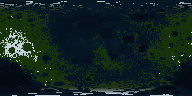
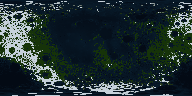
Raise Moon terrain authority to LOLA LDEM 128

diff --git a/src/domain/services/dem_terrain_source.rs b/src/domain/services/dem_terrain_source.rs
@@ -33,6 +33,9 @@ pub const ETOPO1_ROWS: usize = 10_801;
 /// LOLA LDEM_16's global pixel-registered grid dimensions.
 pub const LOLA_LDEM16_COLUMNS: usize = 5_760;
 pub const LOLA_LDEM16_ROWS: usize = 2_880;
+/// LOLA LDEM_128's global pixel-registered grid dimensions.
+pub const LOLA_LDEM128_COLUMNS: usize = 46_080;
+pub const LOLA_LDEM128_ROWS: usize = 23_040;
 /// MOLA MEGR's global pixel-registered mean-radius grid dimensions.
 pub const MOLA_MEGR32_COLUMNS: usize = 11_520;
 pub const MOLA_MEGR32_ROWS: usize = 5_760;
@@ -499,13 +502,43 @@ impl CubeSphereDem {
     /// 1,737,400-meter ME/PA reference sphere, with north-to-south rows and
     /// east-positive longitudes from zero through 360 degrees.
     pub fn from_lola_ldem_16_raw(raw: &[u8], resolution: u32) -> Result<Self, DemError> {
-        let expected_bytes = LOLA_LDEM16_COLUMNS
-            .checked_mul(LOLA_LDEM16_ROWS)
+        Self::from_lola_ldem_raw(
+            raw,
+            LOLA_LDEM16_COLUMNS,
+            LOLA_LDEM16_ROWS,
+            "LDEM_16",
+            resolution,
+        )
+    }
+
+    /// Convert a PDS LOLA LDEM_128 signed-`i16` little-endian height map (128
+    /// pixels per degree, 236.9 m samples) into the cube-sphere format. The
+    /// product shares LDEM_16's 0-360 degree east-positive, north-to-south
+    /// pixel registration and 0.5 m height scaling, so the same sampler applies.
+    pub fn from_lola_ldem_128_raw(raw: &[u8], resolution: u32) -> Result<Self, DemError> {
+        Self::from_lola_ldem_raw(
+            raw,
+            LOLA_LDEM128_COLUMNS,
+            LOLA_LDEM128_ROWS,
+            "LDEM_128",
+            resolution,
+        )
+    }
+
+    fn from_lola_ldem_raw(
+        raw: &[u8],
+        columns: usize,
+        rows: usize,
+        product: &str,
+        resolution: u32,
+    ) -> Result<Self, DemError> {
+        let expected_bytes = columns
+            .checked_mul(rows)
             .and_then(|samples| samples.checked_mul(HEIGHT_BYTES))
-            .expect("LOLA LDEM_16 raw byte count fits usize on supported targets");
+            .ok_or_else(|| DemError::InvalidFormat("LOLA LDEM dimensions overflow".into()))?;
         if raw.len() != expected_bytes {
             return Err(DemError::InvalidFormat(format!(
-                "LOLA LDEM_16 raw input must be {expected_bytes} bytes for {LOLA_LDEM16_COLUMNS}x{LOLA_LDEM16_ROWS} signed i16 LE samples, found {}",
+                "LOLA {product} raw input must be {expected_bytes} bytes for {columns}x{rows} signed i16 LE samples, found {}",
                 raw.len()
             )));
         }
@@ -520,14 +553,8 @@ impl CubeSphereDem {
                     let direction = face_uv_to_direction(face, u, v);
                     let (latitude_deg, longitude_deg) = direction_to_lat_lon(direction);
                     heights_m.push(
-                        sample_lola_ldem_m(
-                            raw,
-                            LOLA_LDEM16_COLUMNS,
-                            LOLA_LDEM16_ROWS,
-                            latitude_deg,
-                            longitude_deg,
-                        )
-                        .round() as i16,
+                        sample_lola_ldem_m(raw, columns, rows, latitude_deg, longitude_deg).round()
+                            as i16,
                     );
                 }
             }
@@ -685,15 +712,36 @@ pub fn convert_etopo2022_raw(
     CubeSphereDem::from_etopo2022_raw(&raw, resolution)?.write_path(output_path)
 }
 
-/// Convert the PDS LOLA LDEM_16 raw radius map into the versioned cube-sphere
-/// format. This is an offline tool; the simulator never reads source rasters.
-pub fn convert_lola_ldem_16_raw(
+/// Convert a PDS LOLA LDEM_16 or LDEM_128 raw height map into the versioned
+/// cube-sphere format. The product is inferred from the exact raster size, so
+/// a truncated or mislabelled download is rejected instead of baked. This is an
+/// offline tool; the simulator never reads source rasters.
+pub fn convert_lola_ldem_raw(
     input_path: impl AsRef<Path>,
     output_path: impl AsRef<Path>,
     resolution: u32,
 ) -> Result<(), DemError> {
     let raw = fs::read(input_path)?;
-    CubeSphereDem::from_lola_ldem_16_raw(&raw, resolution)?.write_path(output_path)
+    let ldem16_bytes = LOLA_LDEM16_COLUMNS
+        .checked_mul(LOLA_LDEM16_ROWS)
+        .and_then(|samples| samples.checked_mul(HEIGHT_BYTES))
+        .expect("LDEM_16 byte count fits usize");
+    let ldem128_bytes = LOLA_LDEM128_COLUMNS
+        .checked_mul(LOLA_LDEM128_ROWS)
+        .and_then(|samples| samples.checked_mul(HEIGHT_BYTES))
+        .expect("LDEM_128 byte count fits usize");
+    let dem = match raw.len() {
+        length if length == ldem16_bytes => CubeSphereDem::from_lola_ldem_16_raw(&raw, resolution)?,
+        length if length == ldem128_bytes => {
+            CubeSphereDem::from_lola_ldem_128_raw(&raw, resolution)?
+        }
+        length => {
+            return Err(DemError::InvalidFormat(format!(
+                "LOLA raw input is {length} bytes; expected {ldem16_bytes} (LDEM_16) or {ldem128_bytes} (LDEM_128)"
+            )))
+        }
+    };
+    dem.write_path(output_path)
 }
 
 /// Convert a PDS MOLA MEGR 32 raw radius map into the versioned cube-sphere
@@ -1115,5 +1163,17 @@ mod tests {
             round_height_m(f64::from(i16::MAX) + 1.0),
             Err(DemError::InvalidFormat(_))
         ));
+    }
+
+    #[test]
+    fn lola_product_converters_require_the_exact_raster_size() {
+        // A truncated or mislabelled download must fail before any sampling, so
+        // the 128 pixel-per-degree product cannot be confused with LDEM_16.
+        for error in [
+            CubeSphereDem::from_lola_ldem_16_raw(&[], 8),
+            CubeSphereDem::from_lola_ldem_128_raw(&[], 8),
+        ] {
+            assert!(matches!(error, Err(DemError::InvalidFormat(_))));
+        }
     }
 }

diff --git a/src/bin/lola_ldem_convert.rs b/src/bin/lola_ldem_convert.rs
@@ -1,10 +1,11 @@
-//! Offline PDS LOLA LDEM_16 converter. Requires `--features dem`.
+//! Offline PDS LOLA LDEM converter (LDEM_16 or LDEM_128). Requires
+//! `--features dem`.
 
 use std::env;
 use std::path::PathBuf;
 use std::process::ExitCode;
 
-use cosmic_systems_wasm::domain::services::dem_terrain_source::convert_lola_ldem_16_raw;
+use cosmic_systems_wasm::domain::services::dem_terrain_source::convert_lola_ldem_raw;
 
 fn main() -> ExitCode {
     let mut arguments = env::args_os().skip(1);
@@ -25,10 +26,10 @@ fn main() -> ExitCode {
         return usage();
     }
 
-    match convert_lola_ldem_16_raw(PathBuf::from(input), PathBuf::from(output), resolution) {
+    match convert_lola_ldem_raw(PathBuf::from(input), PathBuf::from(output), resolution) {
         Ok(()) => ExitCode::SUCCESS,
         Err(error) => {
-            eprintln!("LOLA LDEM_16 conversion failed: {error}");
+            eprintln!("LOLA LDEM conversion failed: {error}");
             ExitCode::FAILURE
         }
     }
@@ -36,7 +37,7 @@ fn main() -> ExitCode {
 
 fn usage() -> ExitCode {
     eprintln!(
-        "usage: cargo run --features dem --bin lola_ldem_convert -- <input.img> <output.csdem> [face-resolution]"
+        "usage: cargo run --features dem --bin lola_ldem_convert -- <ldem_16.img|ldem_128.img> <output.csdem> [face-resolution]"
     );
     ExitCode::FAILURE
 }

diff --git a/src/domain/services/terrain_source/catalog.rs b/src/domain/services/terrain_source/catalog.rs
@@ -66,7 +66,7 @@ pub const DEFAULT_EARTH_ELEVATION_MANIFEST_ROOTS: &[&str] = &[
 ];
 #[cfg(feature = "dem")]
 pub const DEFAULT_MOON_DEM_PATH: &str =
-    "assets/large_files/terrain/moon_lola_ldem_16_cs2048_v2.csdem";
+    "assets/large_files/terrain/moon_lola_ldem_128_cs4096_v1.csdem";
 #[cfg(feature = "dem")]
 pub const DEFAULT_MARS_DEM_PATH: &str =
     "assets/large_files/terrain/mars_mola_megr_32_cs2048_v2.csdem";

diff --git a/docs/datasets/moon_lola_ldem_128_v3.md b/docs/datasets/moon_lola_ldem_128_v3.md
@@ -1,0 +1,94 @@
+# Moon LOLA LDEM 128 v3
+
+The Moon terrain authority is NASA PDS's LOLA LDEM_128 global gridded data
+product. It is a 128-pixels-per-degree, pixel-registered lunar shape map from
+the Lunar Reconnaissance Orbiter's Lunar Orbiter Laser Altimeter (LOLA),
+replacing the earlier LDEM_16 authority that shipped 16 samples per degree.
+
+Source product: `LDEM_128`, version `V3.0`, created 2017-09-15 by the LOLA Team
+at NASA Goddard Space Flight Center.
+
+Source URL: <https://pds-geosciences.wustl.edu/lro/lro-l-lola-3-rdr-v1/lrolol_1xxx/data/lola_gdr/cylindrical/img/ldem_128.img>
+
+PDS label: <https://pds-geosciences.wustl.edu/lro/lro-l-lola-3-rdr-v1/lrolol_1xxx/data/lola_gdr/cylindrical/img/ldem_128.lbl>
+
+Dataset description: <https://pds-geosciences.wustl.edu/lro/lro-l-lola-3-rdr-v1/lrolol_1xxx/catalog/gdr_ds.cat>
+
[1 lines of base64/hex data omitted]
+
+The source is a 46,080 by 23,040 signed-16-bit little-endian, pixel-registered
+raster. Each value is multiplied by 0.5 meters to produce height above the
+1,737,400-meter lunar reference sphere. It has 236.901-meter horizontal samples
+at the equator, north-to-south rows, and 0 through 360 degree east-positive
+longitude in a simple cylindrical projection. The geographic bounds describe
+pixel edges; the converter maps onto the source pixel centers and clamps the two
+poles.
+
+The raster's body-fixed frame is `MEAN EARTH/POLAR AXIS OF DE421`. The active
+`pck00011.tpc` orientation authority defines `IAU_MOON` as the same
+mean-Earth/polar-axis orientation approximation, so no unreviewed lunar frame
+conversion is introduced. The catalog Moon radius is also 1,737,400 meters.
+
+The runtime package is generated offline with:
+
+```sh
+cargo run --release --features native --bin lola_ldem_convert -- \
+  assets/large_files/terrain/moon_lola_ldem_128_v3.img \
+  assets/large_files/terrain/moon_lola_ldem_128_cs4096_v1.csdem 4096
+```
+
+The converter infers LDEM_16 versus LDEM_128 from the exact raster byte count, so
+a truncated or mislabelled download fails instead of baking a partial Moon. The
+generated CSDEM stores signed integer-meter elevations on six cube-sphere faces
+in `CubeFace::ALL` order and a precomputed patch-metadata pyramid. Runtime only
+validates and deserializes this package. Resampling adds at most 0.25 meters of
+rounding error beyond the source's published sampling and interpolation limits.
+The PDS product documents possible artifacts at 45-degree latitude-band edges;
+it does not provide a global numeric vertical-error bound.
+
+The 4096-sample cube face gives roughly 0.67 km vertex spacing at the equator,
+about 2.8 times coarser than the 236.9 m source. A 8192-sample face would match
+the source more closely but would make the resident package about 805 MB, so the
+current authority keeps the 203 MB (194 MiB) package and a bounded memory
+footprint. The source raster remains archived offline for a future re-bake.
+
[1 lines of base64/hex data omitted]
+(203,423,760 bytes, about 194 MiB).
+
+## Validation
+
+`terrain_metrics --body moon --quick` on the new authority reports
+min -8555.6 m, max 10174.1 m, median slope 2.71 degrees, p95 slope 7.89
+degrees. The previous LDEM_16 package reports min -8497.3 m, max 10097.9 m,
+median slope 2.60 degrees, p95 slope 7.74 degrees. Both harness passes sample a
+0.5-degree grid, so these values are deliberately smooth; they confirm the new
+package stays in the same physical range rather than exposing its full detail.
+
+The full source raster spans -9127.0 m to 10778.5 m. The baked package spans
+-9123 m to 10763 m, so resampling misses the exact extrema by 4 m and 15.5 m
+respectively, consistent with bilinear sampling of a 4096-sample cube face.
+The source pixel mean is -519.5 m because equirectangular rows over-weight the
+poles; area-weighted it is -248.7 m. The cube-sphere package mean is -234.8 m.
+The remaining 14 m difference comes from cube-face UV area distortion, not from
+a datum or scaling error.
+
+A truncated download cannot be mistaken for a valid product: the converter
+checks the exact 46,080 x 23,040 sample count, and a unit test asserts that an
+empty or partial LDEM_128 input is rejected before sampling.
+
+Rocket Mode's non-authoritative body-fixed overview is generated offline with:
+
+```sh
+cargo run --release --features dem --bin terrain_overview_bake -- moon assets/large_files/terrain/moon_terrain_overview_v1.png
+```
+
[1 lines of base64/hex data omitted]
+
+No simulator path downloads terrain data. If the local CSDEM is absent, the
+Moon receives no `PlanetTerrain` component and remains non-landable; it never
+falls back to procedural terrain. A present but invalid file is a startup
+configuration error.
+
+The previous LDEM_16 CSDEM (`moon_lola_ldem_16_cs2048_v2.csdem`) remains on disk
+as a rollback package; reverting the Moon authority only requires pointing
+`DEFAULT_MOON_DEM_PATH` back at it.

diff --git a/docs/plans/premium-realistic-spaceflight-simulator.md b/docs/plans/premium-realistic-spaceflight-simulator.md
@@ -202,11 +202,12 @@ validated on `main`.
   maps plus merged vegetation and scatter are generated in worker tasks only
   for level-12-or-finer patches, then applied as presentation-only detail over
   global Earth imagery.
-- Moon loads the NASA PDS LOLA LDEM_16 global shape map from an ignored,
+- Moon loads the NASA PDS LOLA LDEM_128 global shape map from an ignored,
   offline-generated CSDEM. Its DE421 mean-Earth/polar-axis frame matches the
   active `pck00011.tpc` Moon orientation approximation, and an unavailable or
   invalid local CSDEM leaves the Moon non-landable rather than substituting
-  procedural terrain.
+  procedural terrain. The previous LDEM_16 package is retained only as a
+  rollback authority.
 - Mars loads the NASA PDS MOLA MEGR90N000FB global mean-radius map from an
   ignored, offline-generated CSDEM. It uses the reviewed
   `mars_iau2000_v1.tpc` orientation override after `pck00011.tpc` so the
@@ -330,7 +331,7 @@ is insufficient.**
 **Status: implemented for the reviewed LOLA package, frame/datum contract, and
 shared terrain path. Native-display visual acceptance remains pending.**
 
-- The LOLA LDEM_16 manifest, provenance, offline converter, and optional local
+- The LOLA LDEM_128 manifest, provenance, offline converter, and optional local
   CSDEM use the existing terrain contract.
 - The DE421 mean-Earth/polar-axis datum is validated against the active Moon
   orientation authority, and render/collision both consume `TerrainSource`.

diff --git a/docs/datasets/moon_lola_ldem_16_v3.md b/docs/datasets/moon_lola_ldem_16_v3.md
@@ -1,5 +1,10 @@
 # Moon LOLA LDEM 16 v3
 
+Status: superseded as the runtime authority by
+[`moon_lola_ldem_128_v3.md`](moon_lola_ldem_128_v3.md). Kept as a rollback
+package; the conversion and provenance below still describe the retained
+LDEM_16 CSDEM.
+
 The Moon terrain authority is NASA PDS's LOLA LDEM_16 global gridded data
 product. It is a 16-pixels-per-degree, pixel-registered lunar shape map from
 the Lunar Reconnaissance Orbiter's Lunar Orbiter Laser Altimeter (LOLA).
@@ -51,7 +56,9 @@ Rocket Mode's non-authoritative body-fixed overview is generated offline with:
 cargo run --features dem --bin terrain_overview_bake -- moon assets/large_files/terrain/moon_terrain_overview_v1.png
 ```
 
[1 lines of base64/hex data omitted]
+The overview PNG has since been regenerated from the LDEM_128 authority; its
+current SHA-256 is recorded in
+[`moon_lola_ldem_128_v3.md`](moon_lola_ldem_128_v3.md).
 
 No simulator path downloads terrain data. If the local CSDEM is absent, the
 Moon receives no `PlanetTerrain` component and remains non-landable; it never

diff --git a/docs/plans/open-science-data-and-terrain-realism.md b/docs/plans/open-science-data-and-terrain-realism.md
@@ -279,6 +279,11 @@ future work. See `docs/datasets/earth_climate_v1.md`.
 
 ## Phase 7 - Later: Moon/Mars, gravity, astronomy
 
+Status: in progress. The Moon height authority is upgraded to the 128
+pixels-per-degree LOLA LDEM_128 product (236.9 m samples), baked at a
+4096-sample cube face. Mars relief, gravity harmonics, and the star catalog
+remain open. See `docs/datasets/moon_lola_ldem_128_v3.md`.
+
 - Higher-resolution LOLA/MOLA and lunar/Martian imagery.
 - EGM2008 harmonics, GMM-3 (Mars), GRGM (Moon).
 - Gaia DR3 or Hipparcos subset for starfield; TSIS-1 solar irradiance.
